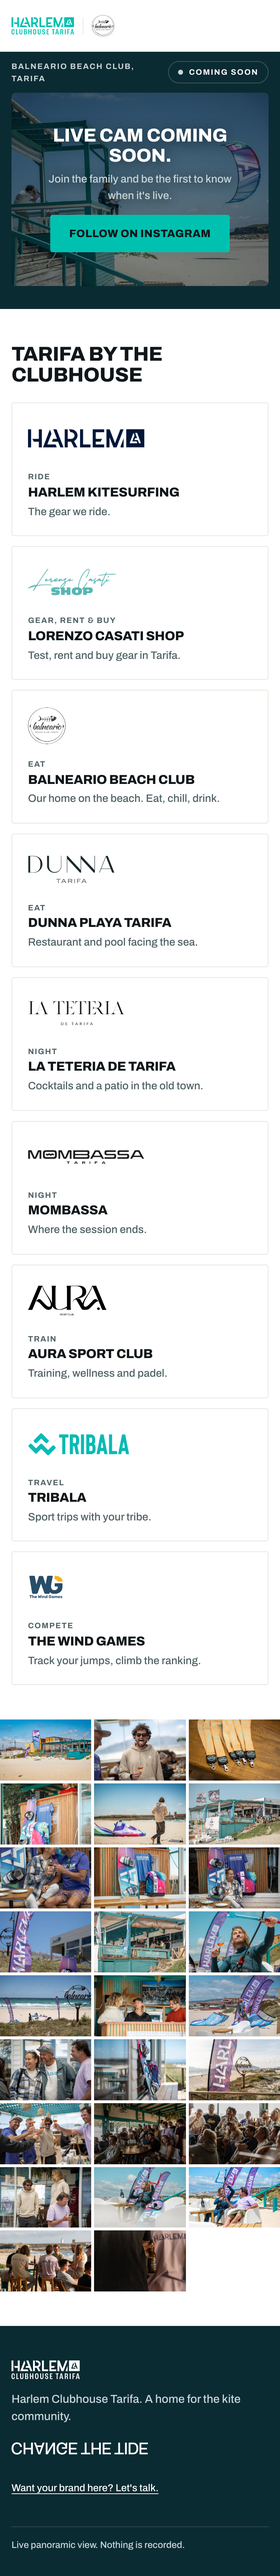
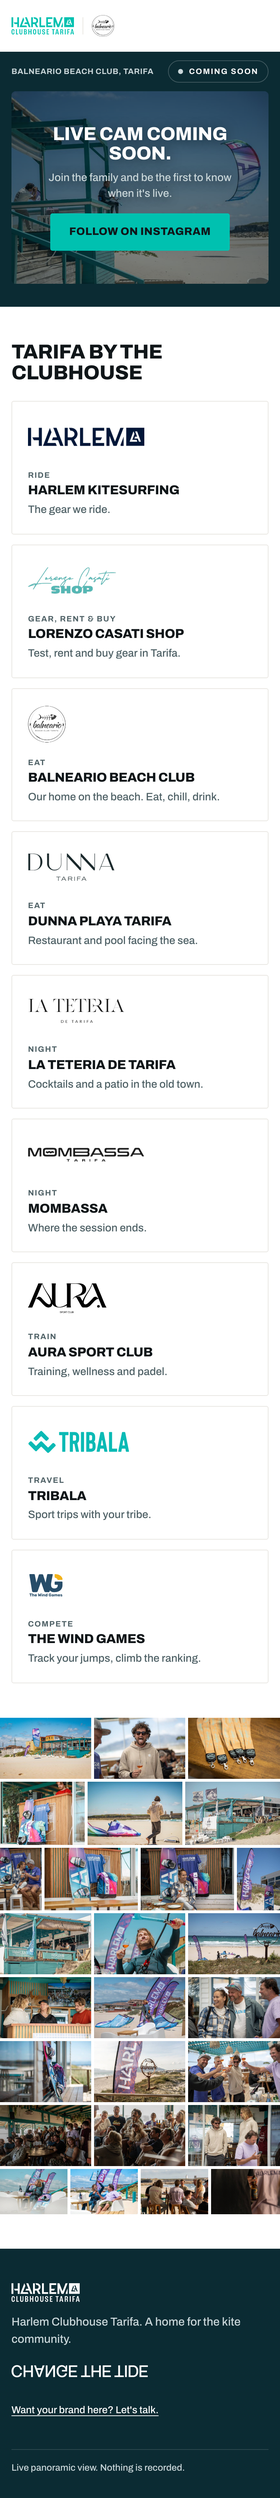
Lay the photographs out justified, and open one on click
The grid kept leaving holes and stretching a single picture across the
page. The wall is now justified: one height per row, widths taken from
each photograph's own shape, the last picture of a row absorbing the
rounding. Rows always fill, and nothing is cropped, so no face is cut.
A thin final row folds back into the row above it.

Clicking a photograph opens it full size, Escape closes it, and with
scripting off the link still opens the file.

Partner subtitle is back and now says train as well.

Changed region(s): [[0.0, 0.0, 1.0, 0.9674], [0.4308, 0.9362, 0.5231, 0.9674], [0.3077, 0.9362, 0.4, 0.9674]]

diff --git a/assets/js/main.js b/assets/js/main.js
@@ -602,6 +602,59 @@
     });
   }
 
+  var MOSAIC_GAP = 4;
+
+  /* A justified photo wall: every row is one height, the widths follow each
+     photograph's own shape, and the last photograph of a row absorbs the
+     rounding, so a row is always exactly as wide as the page. No holes,
+     no two pictures the same size. */
+  function layoutMosaic() {
+    var strip = $("#photos");
+    if (!strip || !strip.clientWidth) return;
+
+    var width = strip.clientWidth;
+    var target = width < 700 ? 104 : (width < 1100 ? 132 : 158);
+    var items = $$(".mood__item", strip).map(function (el) {
+      var w = Number(el.getAttribute("data-w")) || 3;
+      var h = Number(el.getAttribute("data-h")) || 2;
+      return { el: el, aspect: w / h };
+    });
+    if (!items.length) return;
+
+    function place(row) {
+      var available = width - MOSAIC_GAP * (row.length - 1);
+      var sum = 0;
+      row.forEach(function (x) { sum += x.aspect; });
+      var h = Math.max(60, Math.round(available / sum));
+      var used = 0;
+      row.forEach(function (x, i) {
+        var w = i === row.length - 1 ? available - used : Math.floor(h * x.aspect);
+        used += w;
+        x.el.style.width = w + "px";
+        x.el.style.height = h + "px";
+      });
+    }
+
+    var rows = [];
+    var row = [];
+    var sum = 0;
+    items.forEach(function (item) {
+      row.push(item);
+      sum += item.aspect;
+      if (sum * target >= width) { rows.push(row); row = []; sum = 0; }
+    });
+    if (row.length) {
+      // a thin last row would stretch two photographs across the page,
+      // so it goes back into the row above instead
+      if (rows.length && sum * target < width * 0.62) {
+        rows[rows.length - 1] = rows[rows.length - 1].concat(row);
+      } else {
+        rows.push(row);
+      }
+    }
+    rows.forEach(place);
+  }
+
   /* A quiet mosaic of real photographs of the place. */
   function renderPhotos() {
     var host = $("#photos");
@@ -612,14 +665,27 @@
     clear(host);
     photos.forEach(function (p) {
       var figure = node("figure", "mood__item");
+      var link = node("a", "mood__link");
+      link.href = p.src;
+      link.setAttribute("aria-label", text("photos.openHint") || "Open photo");
       var img = lazyImage("mood__photo", p.src, p.alt || "");
-      // the ratio has to be known before the file arrives, or the mosaic
-      // lays itself out against images of zero height and never recovers
-      if (p.w && p.h) { img.width = p.w; img.height = p.h; }
-      figure.appendChild(img);
+      if (p.w && p.h) {
+        img.width = p.w;
+        img.height = p.h;
+        figure.setAttribute("data-w", p.w);
+        figure.setAttribute("data-h", p.h);
+      }
+      link.appendChild(img);
+      figure.appendChild(link);
       host.appendChild(figure);
     });
     section.hidden = false;
+    layoutMosaic();
+    var resizeTimer;
+    window.addEventListener("resize", function () {
+      clearTimeout(resizeTimer);
+      resizeTimer = setTimeout(layoutMosaic, 150);
+    });
   }
 
   /* ----------------------------------------------------- footer */
@@ -695,6 +761,47 @@
     host.appendChild(line);
   }
 
+  /* A photograph opens at full size. Without scripting the link still
+     opens the file on its own. */
+  var lightbox = null;
+  var lastFocus = null;
+
+  function closeLightbox() {
+    if (!lightbox) return;
+    document.body.style.overflow = "";
+    lightbox.parentNode.removeChild(lightbox);
+    lightbox = null;
+    if (lastFocus && lastFocus.focus) lastFocus.focus();
+  }
+
+  function openLightbox(src, alt) {
+    closeLightbox();
+    lastFocus = document.activeElement;
+    lightbox = node("div", "lightbox");
+    lightbox.setAttribute("role", "dialog");
+    lightbox.setAttribute("aria-modal", "true");
+
+    var img = node("img", "lightbox__photo");
+    img.src = src;
+    img.alt = alt || "";
+    lightbox.appendChild(img);
+
+    var close = node("button", "lightbox__close", text("photos.close") || "Close");
+    close.type = "button";
+    lightbox.appendChild(close);
+
+    lightbox.addEventListener("click", function (ev) {
+      if (ev.target !== img) closeLightbox();
+    });
+    document.body.appendChild(lightbox);
+    document.body.style.overflow = "hidden";
+    close.focus();
+  }
+
+  document.addEventListener("keydown", function (ev) {
+    if (ev.key === "Escape") closeLightbox();
+  });
+
   /* ----------------------------------------------------- click handling */
 
   function initClicks() {
@@ -702,6 +809,12 @@
       var a = ev.target && ev.target.closest ? ev.target.closest("a") : null;
       if (!a) return;
       if (a.getAttribute("data-unset") === "true") { ev.preventDefault(); return; }
+      if (a.className === "mood__link") {
+        ev.preventDefault();
+        var photo = a.querySelector("img");
+        openLightbox(a.getAttribute("href"), photo ? photo.alt : "");
+        return;
+      }
       var cta = a.getAttribute("data-track-cta");
       if (cta) track(cta === "instagram" ? "Follow Instagram" : "Join WhatsApp");
       var slug = a.getAttribute("data-partner");

diff --git a/assets/css/style.css b/assets/css/style.css
@@ -359,7 +359,13 @@ h1, h2, h3 {
 
 .directory { padding: var(--s7) 0; }
 
-.directory__title { font-size: 28px; margin-bottom: var(--s5); }
+.directory__title { font-size: 28px; }
+
+.directory__sub {
+  color: var(--mute);
+  margin-top: var(--s2);
+  margin-bottom: var(--s5);
+}
 
 .partners {
   display: grid;
@@ -435,7 +441,8 @@ h1, h2, h3 {
 
 @media (min-width: 1000px) {
   .directory { padding: var(--s8) 0; }
-  .directory__title { font-size: 40px; margin-bottom: var(--s6); }
+  .directory__title { font-size: 40px; }
+  .directory__sub { margin-bottom: var(--s6); }
   .partners { grid-template-columns: repeat(3, 1fr); }
 }
 
@@ -444,28 +451,68 @@ h1, h2, h3 {
 .mood { padding-bottom: var(--s7); }
 
 .mood__strip {
-  display: grid;
-  grid-template-columns: repeat(auto-fill, minmax(118px, 1fr));
+  display: flex;
+  flex-wrap: wrap;
   gap: 4px;
 }
 
-.mood__item { margin: 0; }
+.mood__item {
+  margin: 0;
+  overflow: hidden;
+  flex: none;
+}
+
+.mood__link {
+  display: block;
+  width: 100%;
+  height: 100%;
+}
 
 .mood__photo {
   width: 100%;
   height: 100%;
-  aspect-ratio: 3 / 2;
   object-fit: cover;
   display: block;
 }
 
-@media (min-width: 700px) {
-  .mood__strip { grid-template-columns: repeat(auto-fill, minmax(170px, 1fr)); }
+.lightbox {
+  position: fixed;
+  inset: 0;
+  z-index: 50;
+  display: flex;
+  align-items: center;
+  justify-content: center;
+  padding: var(--s5);
+  background: rgba(6, 23, 28, 0.94);
 }
 
-@media (min-width: 1100px) {
-  .mood__strip { grid-template-columns: repeat(auto-fill, minmax(210px, 1fr)); }
+.lightbox__photo {
+  max-width: 100%;
+  max-height: 100%;
+  width: auto;
+  height: auto;
+  object-fit: contain;
 }
+
+.lightbox__close {
+  position: absolute;
+  top: var(--s4);
+  right: var(--s4);
+  min-height: 44px;
+  padding: 10px 18px;
+  border: 1px solid rgba(255, 255, 255, 0.3);
+  border-radius: var(--radius);
+  background: transparent;
+  color: var(--surface);
+  font: inherit;
+  font-weight: 700;
+  font-size: 13px;
+  letter-spacing: 0.08em;
+  text-transform: uppercase;
+  cursor: pointer;
+}
+
+.lightbox__close:hover { border-color: var(--surface); }
 
 /* ---------------------------------------------------- the ask */
 

diff --git a/assets/js/config.js b/assets/js/config.js
@@ -287,11 +287,15 @@ window.SITE = {
     },
     partners: {
       title: "Tarifa by the Clubhouse",
-      subtitle: "Where we ride, eat and party."
+      subtitle: "Where we ride, train, eat and party."
     },
     dates: {
       days: ["Sun", "Mon", "Tue", "Wed", "Thu", "Fri", "Sat"],
       months: ["Jan", "Feb", "Mar", "Apr", "May", "Jun", "Jul", "Aug", "Sep", "Oct", "Nov", "Dec"]
+    },
+    photos: {
+      close: "Close",
+      openHint: "Open photo"
     },
     footer: {
       line1: "Harlem Clubhouse Tarifa. A home for the kite community.",

diff --git a/index.html b/index.html
@@ -115,6 +115,7 @@
   <section class="directory" id="section-partners" aria-labelledby="directory-title">
     <div class="shell">
       <h2 class="directory__title" id="directory-title" data-copy="partners.title">Tarifa by the Clubhouse</h2>
+      <p class="directory__sub" data-copy="partners.subtitle">Where we ride, train, eat and party.</p>
       <div class="partners" id="partners"></div>
     </div>
   </section>
